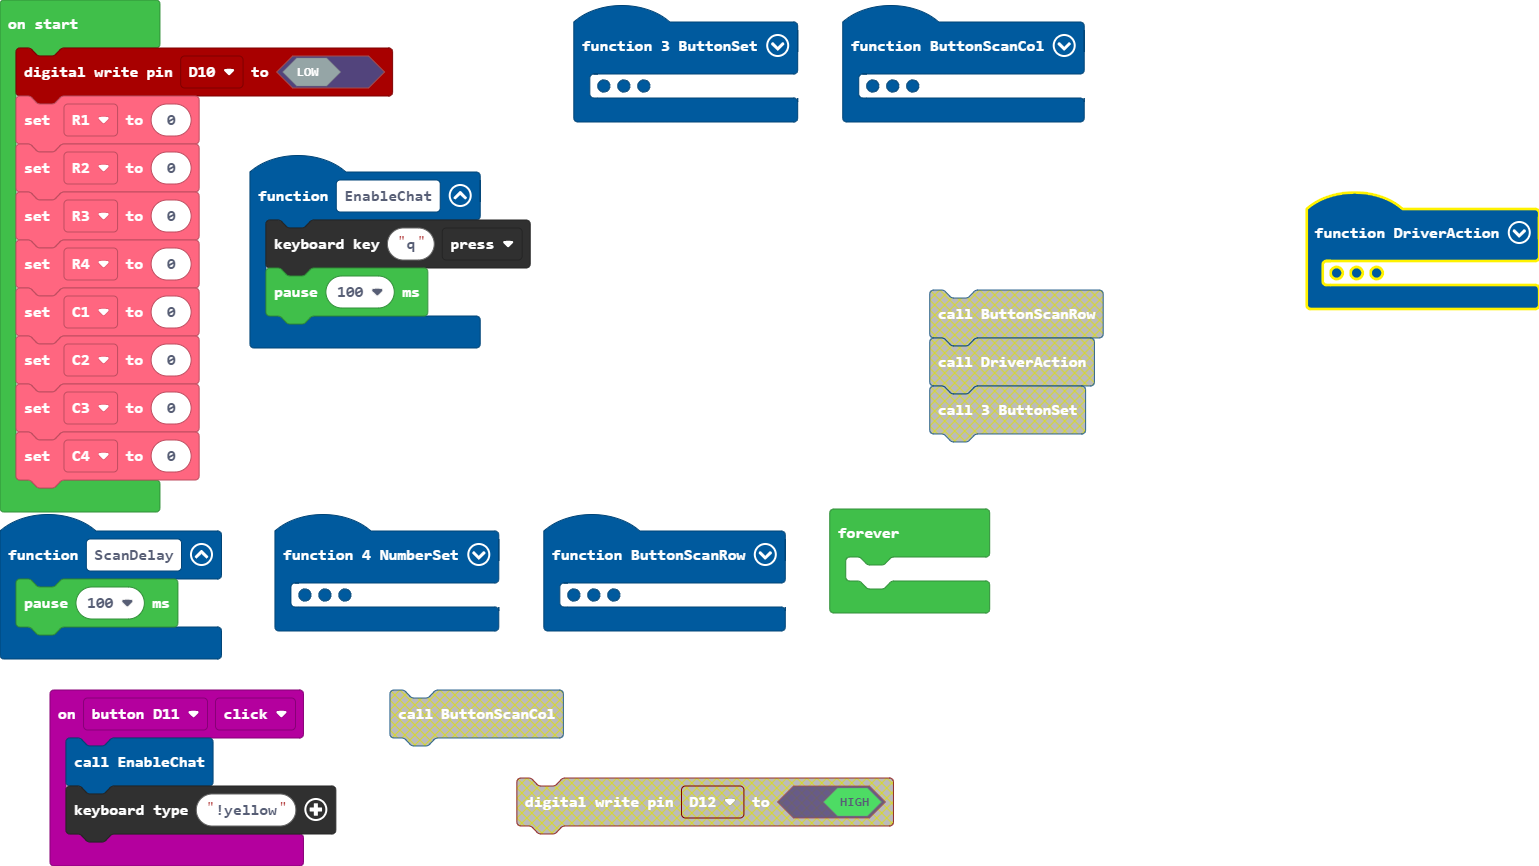
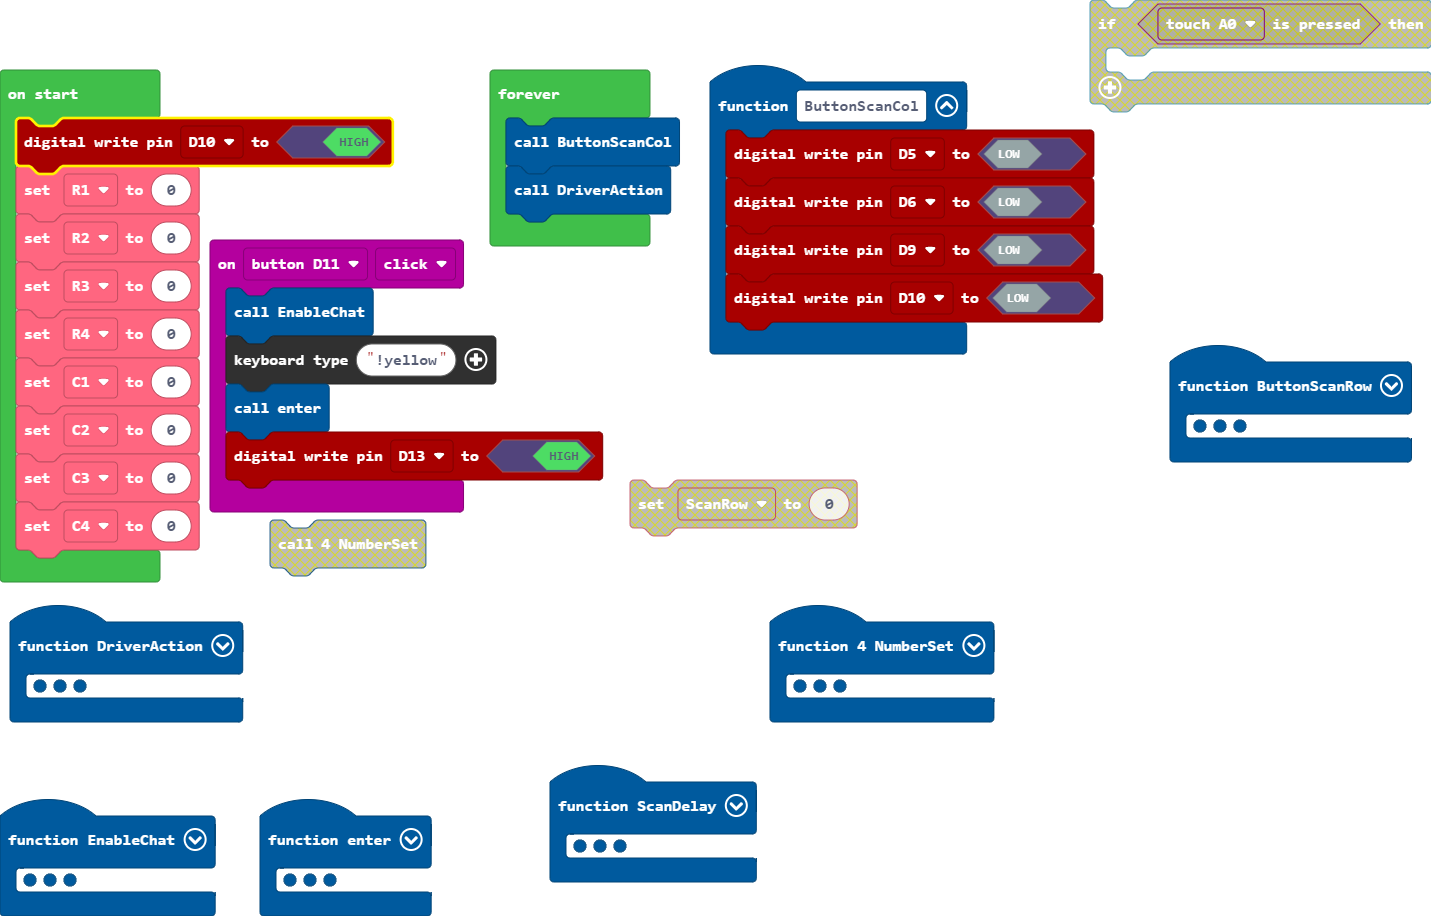
Update pxt.json, main.blocks, main.ts

diff --git a/main.ts b/main.ts
@@ -1,76 +1,37 @@
-function _3_ButtonSet () {
-    if (input.buttonA1.isPressed()) {
-        C1 = 1
-    } else {
-        C1 = 0
-    }
-    if (input.buttonA2.isPressed()) {
-        C2 = 1
-    } else {
-        C2 = 0
-    }
-    if (input.buttonA3.isPressed()) {
-        C3 = 1
-    } else {
-        C3 = 0
-    }
-    if (input.buttonA4.isPressed()) {
-        C4 = 1
-    } else {
-        C4 = 0
-    }
-    if (input.buttonD5.isPressed()) {
-        R1 = 1
-    } else {
-        R1 = 0
-    }
-    if (input.buttonD6.isPressed()) {
-        R2 = 1
-    } else {
-        R2 = 0
-    }
-    if (input.buttonD9.isPressed()) {
-        R3 = 1
-    } else {
-        R3 = 0
-    }
-    if (input.buttonD10.isPressed()) {
-        R4 = 1
-    } else {
-        R4 = 0
-    }
-}
 function _4_NumberSet () {
-    if (R1 == 1 || C1 == 1) {
+    if (R1 == 1 && C1 == 1) {
         keyboard.type("1")
     }
-    if (R1 == 1 || C2 == 1) {
+    if (R1 == 1 && C2 == 1) {
         keyboard.type("2")
     }
-    if (R1 == 1 || C3 == 1) {
+    if (R1 == 1 && C3 == 1) {
         keyboard.type("3")
     }
-    if (R2 == 1 || C1 == 1) {
+    if (R2 == 1 && C1 == 1) {
         keyboard.type("4")
     }
-    if (R2 == 1 || C2 == 1) {
+    if (R2 == 1 && C2 == 1) {
         keyboard.type("5")
     }
-    if (R2 == 1 || C3 == 1) {
+    if (R2 == 1 && C3 == 1) {
         keyboard.type("6")
     }
-    if (R3 == 1 || C1 == 1) {
+    if (R3 == 1 && C1 == 1) {
         keyboard.type("7")
     }
-    if (R3 == 1 || C2 == 1) {
+    if (R3 == 1 && C2 == 1) {
         keyboard.type("8")
     }
-    if (R3 == 1 || C3 == 1) {
+    if (R3 == 1 && C3 == 1) {
         keyboard.type("9")
     }
-    if (R4 == 1 || C2 == 1) {
+    if (R4 == 1 && C2 == 1) {
         keyboard.type("0")
     }
+}
+function enter () {
+    keyboard.type("")
 }
 function DriverAction () {
     if (R1 == 1 && C4 == 1) {
@@ -93,41 +54,31 @@ function DriverAction () {
 input.buttonD11.onEvent(ButtonEvent.Click, function () {
     EnableChat()
     keyboard.type("!yellow")
+    enter()
+    pins.D13.digitalWrite(true)
 })
 function EnableChat () {
-    keyboard.key("q", KeyboardKeyEvent.Press)
+    keyboard.key("t", KeyboardKeyEvent.Press)
     pause(100)
 }
 function ScanDelay () {
     pause(100)
 }
 function ButtonScanCol () {
-    pins.A1.digitalWrite(true)
-    ScanDelay()
-    pins.A1.digitalWrite(false)
-    pins.A2.digitalWrite(true)
-    ScanDelay()
-    pins.A2.digitalWrite(false)
-    pins.A3.digitalWrite(true)
-    ScanDelay()
-    pins.A3.digitalWrite(false)
-    pins.A4.digitalWrite(true)
-    ScanDelay()
-    pins.A4.digitalWrite(false)
+    pins.D5.digitalWrite(false)
+    pins.D6.digitalWrite(false)
+    pins.D9.digitalWrite(false)
+    pins.D10.digitalWrite(false)
 }
 function ButtonScanRow () {
     pins.D5.digitalWrite(true)
-    ScanDelay()
-    pins.D5.digitalWrite(false)
     pins.D6.digitalWrite(true)
-    ScanDelay()
-    pins.D6.digitalWrite(false)
     pins.D9.digitalWrite(true)
-    ScanDelay()
-    pins.D9.digitalWrite(false)
     pins.D10.digitalWrite(true)
-    ScanDelay()
-    pins.D10.digitalWrite(false)
+    pins.A1.digitalWrite(false)
+    pins.A2.digitalWrite(false)
+    pins.A2.digitalWrite(false)
+    pins.A2.digitalWrite(false)
 }
 let C4 = 0
 let C3 = 0
@@ -137,7 +88,7 @@ let R4 = 0
 let R3 = 0
 let R2 = 0
 let R1 = 0
-pins.D10.digitalWrite(false)
+pins.D10.digitalWrite(true)
 R1 = 0
 R2 = 0
 R3 = 0
@@ -147,5 +98,6 @@ C2 = 0
 C3 = 0
 C4 = 0
 forever(function () {
-	
+    ButtonScanCol()
+    DriverAction()
 })
